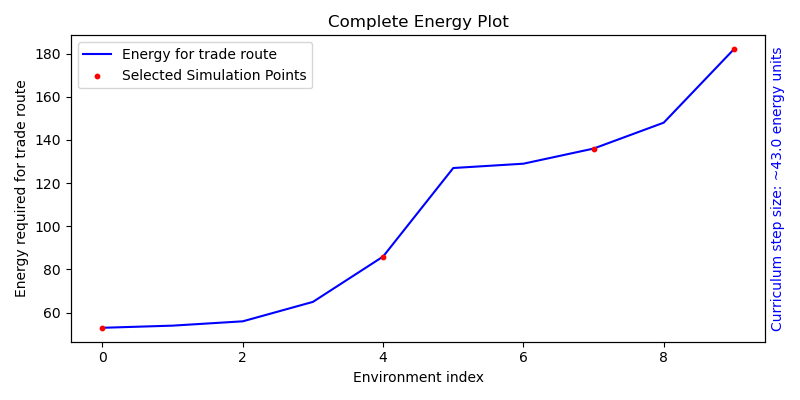
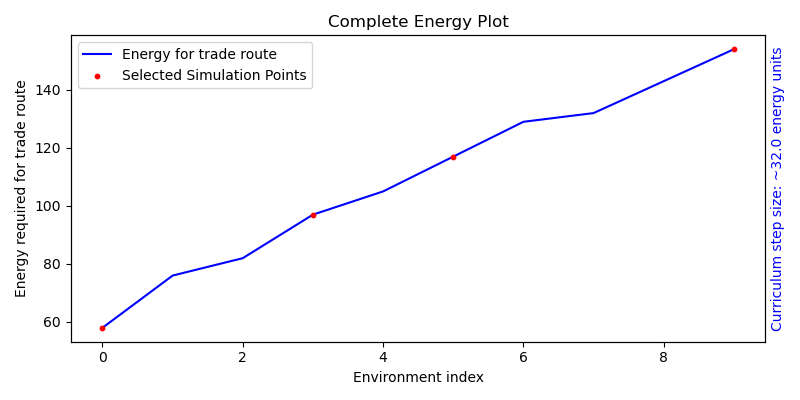
Vision work, plot variable

diff --git a/custom_env.py b/custom_env.py
@@ -7,7 +7,7 @@ from agent_model import AgentModel
 from simulation_manager import SimulationManager
 
 class CustomEnv(gym.Env):
-    def __init__(self, game_manager_args, simulation_manager_args, model_args):
+    def __init__(self, game_manager_args, simulation_manager_args, model_args, plot = False):
         super(CustomEnv, self).__init__()
         self.new_outpost_reward = 10
         self.completion_reward = 100
@@ -27,7 +27,8 @@ class CustomEnv(gym.Env):
         self.simulation_manager = SimulationManager(
             game_manager_args,
             simulation_manager_args['number_of_environments'], 
-            simulation_manager_args['number_of_curricula']
+            simulation_manager_args['number_of_curricula'],
+            plot = plot
         )
         
         self.current_game_index = 0
@@ -38,6 +39,7 @@ class CustomEnv(gym.Env):
         num_node_features = self.kg.graph.num_node_features  # Features per node
         num_edge_features = self.kg.graph.num_edge_features  # Features per edge
 
+        self.vision_pixel_size = (2 * self.vision_range + 1) * self.current_gm.tile_size
         vision_shape = (3, 2 * self.vision_range + 1, 2 * self.vision_range + 1)
         vision_space = spaces.Box(low=0, high=255, shape=vision_shape, dtype=np.uint8)
 
@@ -107,6 +109,8 @@ class CustomEnv(gym.Env):
         self.early_stop = False
         self.num_not_improvement_routes = 0
         observation = self._get_observation()
+        assert self.observation_space['vision'].contains(observation['vision']), f"Vision data out of bounds: {observation['vision']}"
+        assert self.observation_space['graph'].contains(observation['graph']), f"Graph data out of bounds: {observation['graph']}"
         return observation
 
     def step(self, action):
@@ -124,38 +128,32 @@ class CustomEnv(gym.Env):
                  'graph': self.current_gm.kg_class.get_subgraph()
                 }
 
+    def get_clamped_surface(self):
+        # Ensure the surface area is within the bounds of the game screen
+        x = (self.agent_controler.agent.grid_x - self.vision_range) * self.current_gm.tile_size
+        y = (self.agent_controler.agent.grid_y - self.vision_range) * self.current_gm.tile_size
+        width = height = self.vision_pixel_size
+        surface_rect = pygame.Rect(x, y, width, height)
+        surface_rect.clamp_ip(self.current_gm.renderer.surface.get_rect())
+        return self.current_gm.renderer.surface.subsurface(surface_rect)
+
     def _get_vision(self):
         # Calculate the size of the vision area in pixels
-        vision_pixel_size = (2 * self.vision_range + 1) * self.current_gm.tile_size
+        vision_surface = self.get_clamped_surface()
 
-        # Calculate the top-left corner of the vision rectangle in pixel coordinates
-        vision_rect_x = (self.agent_controler.agent.grid_x - self.vision_range) * self.current_gm.tile_size
-        vision_rect_y = (self.agent_controler.agent.grid_y - self.vision_range) * self.current_gm.tile_size
-
-        # Define the vision rectangle
-        vision_rect = pygame.Rect(vision_rect_x, vision_rect_y, vision_pixel_size, vision_pixel_size)
-
-        # Ensure the vision rectangle is within the bounds of the game screen
-        vision_rect.clamp_ip(self.current_gm.renderer.surface.get_rect())
-
-        # Get a view of the vision rectangle
-        vision_view = self.current_gm.renderer.surface.subsurface(vision_rect)
+        # save the vision view to a file
+        pygame.image.save(vision_surface, "vision_view.png")
 
         # Convert the surface to an array
-        vision_array = pygame.surfarray.array3d(vision_view)
+        vision_array = pygame.surfarray.array3d(vision_surface)
+        print("custom_env.py, _get_vision, vision_array.shape:", vision_array.shape)
 
         # The array needs to be transposed from (width, height, channels) to (channels, height, width)
         vision_array = np.transpose(vision_array, (2, 0, 1))
 
-        # Prepare the padded array with the expected shape
-        expected_shape = (3, vision_pixel_size, vision_pixel_size)  # RGB channels
-        padded_array = np.zeros(expected_shape, dtype=np.uint8)
+        return vision_array
 
-        # Only update the valid area, avoiding shape mismatch
-        _, h, w = vision_array.shape  # Extract actual dimensions after transpose
-        padded_array[:, :h, :w] = vision_array
 
-        return padded_array
 
     def evaluate_policy(self, model, n_eval_episodes=10):
         all_episode_rewards = []

diff --git a/game_manager.py b/game_manager.py
@@ -11,9 +11,9 @@ from target import Target_Manager
 from knowledge_graph import KnowledgeGraph
 
 class GameManager:
-    def __init__(self, map_pixel_size=32, screen_size=800, kg_completeness=1, vision_range=2):
-        self.map_size = map_pixel_size
-        self.tile_size = screen_size // map_pixel_size
+    def __init__(self, num_tiles=32, screen_size=800, kg_completeness=1, vision_range=2, plot=False):
+        self.num_tiles = num_tiles
+        self.tile_size = screen_size // num_tiles
         self.environment = None
         self.kg_completeness = kg_completeness
         self.agent_controler = None
@@ -26,6 +26,7 @@ class GameManager:
 
         self.renderer = None
         self.running = True
+        self.plot = plot
 
         self.initialize_components()
 
@@ -36,8 +37,8 @@ class GameManager:
     def initialize_components(self):
         # Generate heightmap
         heightmap_generator = HeightmapGenerator(
-            width=self.map_size, 
-            height=self.map_size, 
+            width=self.num_tiles, 
+            height=self.num_tiles, 
             scale=10, 
             terrain_thresholds=np.array([0.2, 0.38, 0.5, 0.7, 0.9, 1.0]), 
             octaves=3, persistence=0.2, lacunarity=2.0
@@ -51,12 +52,12 @@ class GameManager:
         self.target_manager = Target_Manager(self.environment)
 
     def init_knowledge_graph(self):
-        self.kg_class = KnowledgeGraph(self.environment, self.vision_range, self.kg_completeness)
+        self.kg_class = KnowledgeGraph(self.environment, self.vision_range, self.kg_completeness, self.plot)
         self.agent_controler.get_kg(self.kg_class)
 
     def initialise_rendering(self):
         self.renderer = Renderer(self.environment, self.agent_controler)
-        self.screen = pygame.display.set_mode((self.map_size * self.tile_size, self.map_size * self.tile_size))
+        self.screen = pygame.display.set_mode((self.num_tiles * self.tile_size, self.num_tiles * self.tile_size))
         self.renderer.init_render()
 
     def rerender(self):
@@ -89,7 +90,7 @@ class GameManager:
             self.game_step()
             # pygame.time.wait(1000)
             # save the surface to an image
-            pygame.image.save(self.screen, "screenshot.jpeg")
+            pygame.image.save(self.screen, "small_game_background.jpeg")
             exit()
 
         pygame.quit()

diff --git a/simulation_manager.py b/simulation_manager.py
@@ -5,25 +5,26 @@ import csv
 from game_manager import GameManager
 
 class SimulationManager:
-    def __init__(self, game_manager_args, number_of_environments=500, number_of_curricula=10):
+    def __init__(self, game_manager_args, number_of_environments=500, number_of_curricula=10, plot=False):
         self.game_managers = []
         self.curriculum_indices = []
-        self.create_games(number_of_environments, game_manager_args)
+        self.create_games(number_of_environments, game_manager_args, plot)
         number_of_curricula = min(max(1, number_of_curricula), number_of_environments // 2)
         self.curriculum_indices, step_size = self.get_curriculum(number_of_curricula)
         self.step_size = round(step_size, 2)
         energy_values = [gm.target_manager.target_route_energy for gm in self.game_managers]
         print(f"Curriculum step size: ~{self.step_size} energy units")
-        self.create_plots(energy_values, self.curriculum_indices)
+        if plot:
+            self.create_plots(energy_values, self.curriculum_indices)
 
-    def create_games(self, number_of_games, game_manager_args):
+    def create_games(self, number_of_games, game_manager_args, plot):
         map_pixel_size = game_manager_args['map_pixel_size']
         screen_size = game_manager_args['screen_size']
         kg_completeness = game_manager_args['kg_completeness']
         vision_range = game_manager_args['vision_range']
 
         for _ in range(number_of_games):
-            game_manager = GameManager(map_pixel_size, screen_size, kg_completeness, vision_range)
+            game_manager = GameManager(map_pixel_size, screen_size, kg_completeness, vision_range, plot)
             if len(game_manager.environment.outpost_locations) >= 3:
                 self.insert_game_manager_sorted(game_manager)
 

diff --git a/knowledge_graph.py b/knowledge_graph.py
@@ -7,7 +7,7 @@ import matplotlib.pyplot as plt
 import numpy as np
 
 class KnowledgeGraph():
-    def __init__(self, environment, vision_range, completion=1.0):
+    def __init__(self, environment, vision_range, completion=1.0, plot=False):
         self.environment = environment
         self.terrain_array = environment.terrain_index_grid
         self.entity_array = environment.entity_index_grid
@@ -29,7 +29,8 @@ class KnowledgeGraph():
 
         self.init_graph_tensors()
         self.complete_graph()
-        # self.visualise_graph()
+        if plot:
+            self.visualise_graph()
 
     def create_node(self, coordinates, z_level, mask=0):
         x, y, z_level, type_id, mask = self.create_node_features(coordinates, z_level, mask)

diff --git a/main.py b/main.py
@@ -16,9 +16,9 @@ if __name__ == '__main__':
     }
 
     game_manager_args = {
-        'map_pixel_size': 16,
-        'screen_size': 800,
-        'kg_completeness': 1,
+        'num_tiles': 16,
+        'screen_size': 1200,
+        'kg_completeness': 0.1,
         'vision_range': 2
     }
 
@@ -32,7 +32,7 @@ if __name__ == '__main__':
     
 
     from game_manager import GameManager
-    game_manager = GameManager(game_manager_args['map_pixel_size'], game_manager_args['screen_size'],
+    game_manager = GameManager(game_manager_args['num_tiles'], game_manager_args['screen_size'],
                                game_manager_args['kg_completeness'], game_manager_args['vision_range'])
                                
     game_manager.run()

diff --git a/renderer.py b/renderer.py
@@ -66,7 +66,12 @@ class Renderer:
         if terrain_tile.entity_on_tile is not None:
             self.surface.blit(terrain_tile.entity_on_tile.image, (x * self.tile_size, y * self.tile_size))
 
-
+    def get_clamped_view_view(self, x, y, width, height):
+        # Ensure the view area is within the bounds of the game screen
+        view_rect = pygame.Rect(x, y, width, height)
+        view_rect.clamp_ip(self.surface.get_rect())
+        return self.surface.subsurface(view_rect)
+    
     ###################################################################
     #   UI has not been implemented in this version of the renderer   #
     ###################################################################

diff --git a/training.py b/training.py
@@ -15,14 +15,14 @@ simulation_manager_args = {
 }
 
 game_manager_args = {
-    'map_pixel_size': 16,
+    'map_pixel_size': 8,
     'screen_size': 400,
     'kg_completeness': 1,
-    'vision_range': 2
+    'vision_range': 1
 }
 
 # Initialize the custom environment
-env = CustomEnv(game_manager_args, simulation_manager_args, model_args)
+env = CustomEnv(game_manager_args, simulation_manager_args, model_args, plot=False)
 
 # Print the observation space details
 print("Observation Space:", env.observation_space)
